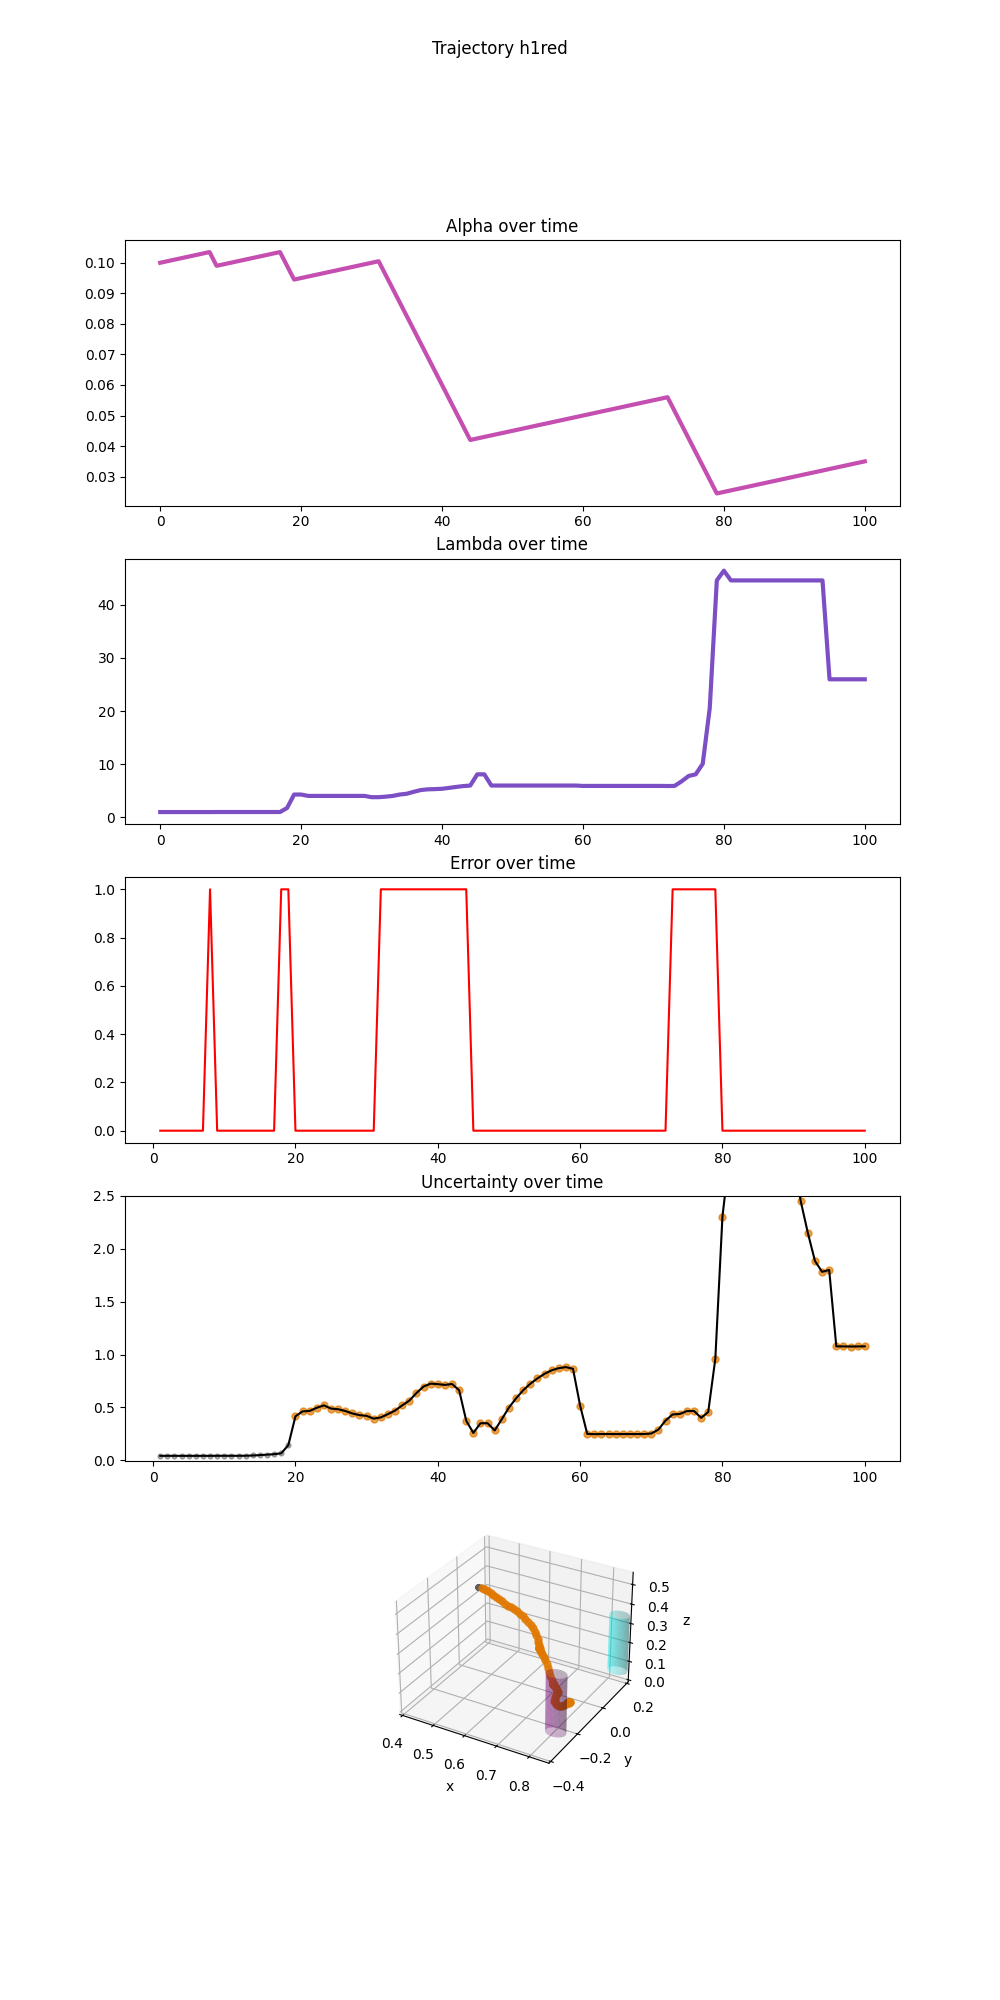
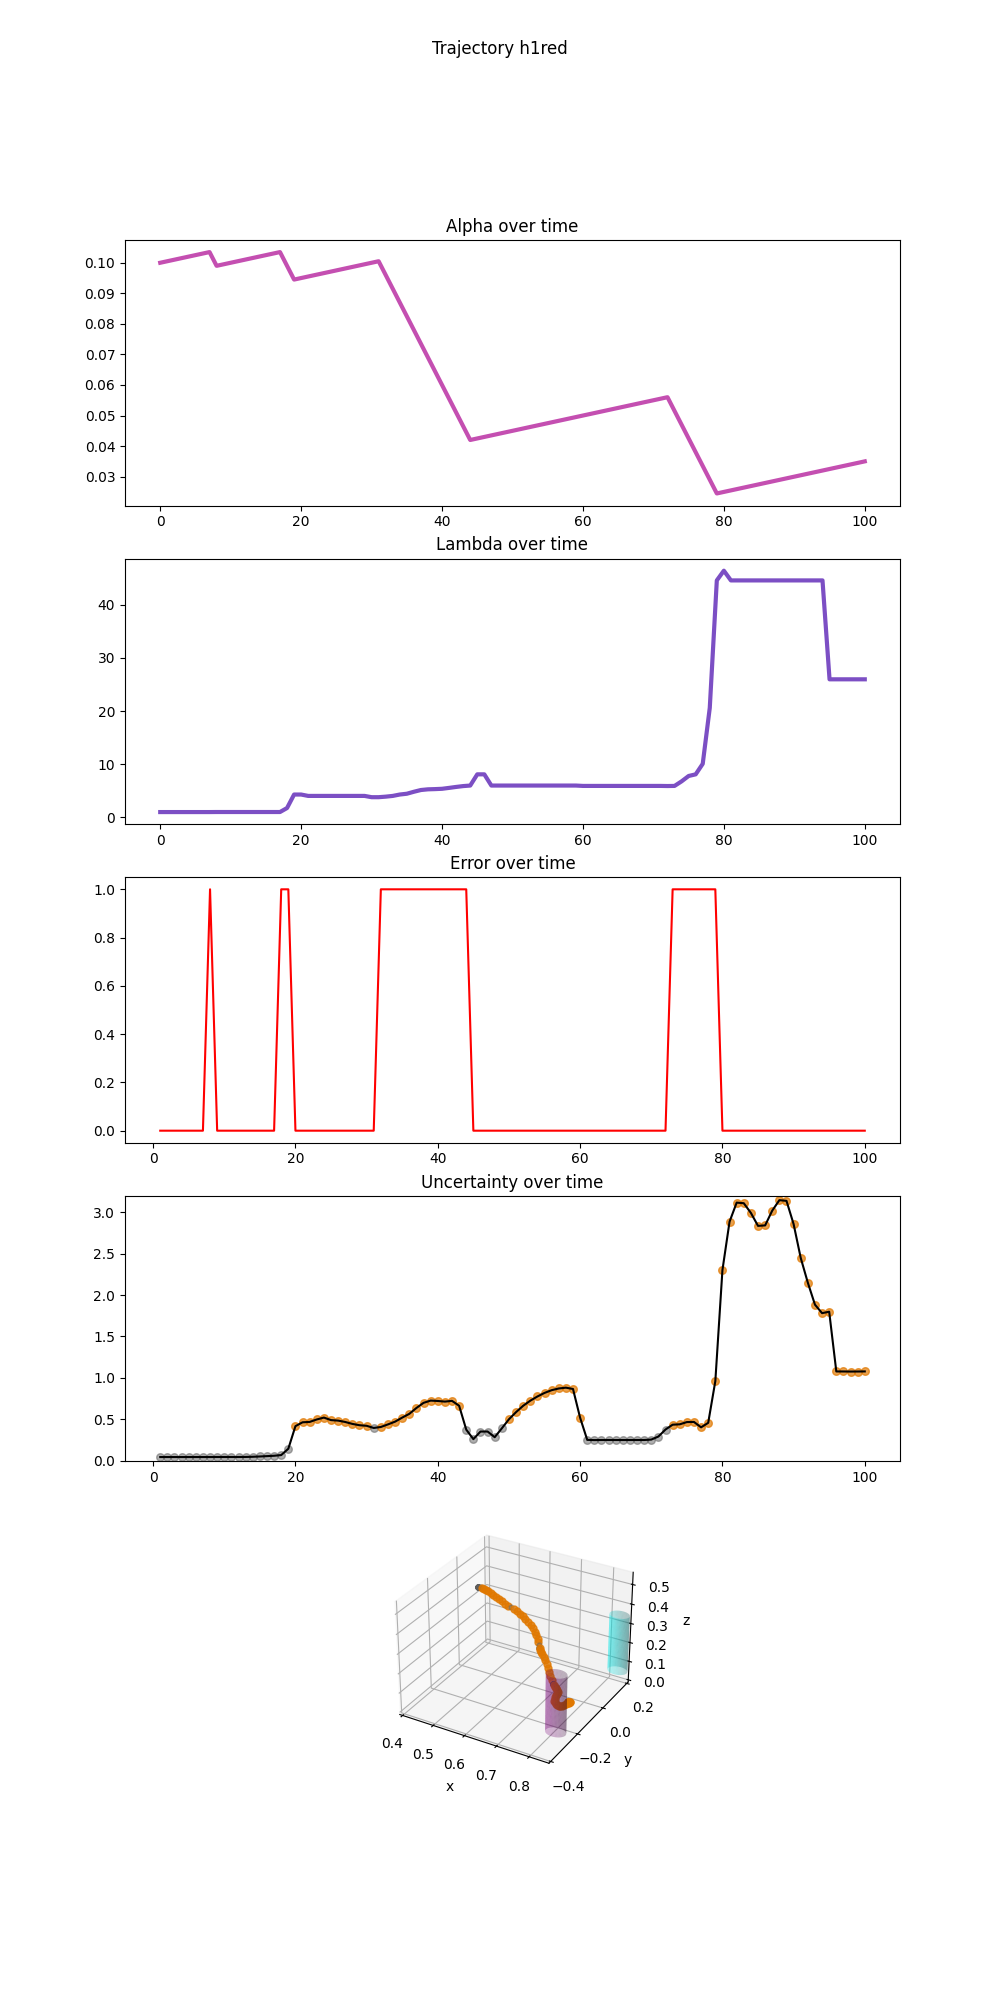
update plotting

diff --git a/utils/robot_7dof_goal_utils/calibrate_teleop_model.py b/utils/robot_7dof_goal_utils/calibrate_teleop_model.py
@@ -502,11 +502,11 @@ def calibrate_teleop_model_with_acqr_w_human_data(calibration_traj_idx_to_data,
 
         # swap rotated_z
     #     Lx,Ly = rotated_z
-    #     Lx, Ly = -Ly, Lx
-    #     rotated_z = [Lx, Ly]
-    #     resave_file.append([state, true_high_dim_action, rotated_z])
-    # #     plt.scatter(Lx, Ly, color=task_color)
-    # # plt.show()
+    # #     Lx, Ly = -Ly, Lx
+    # #     rotated_z = [Lx, Ly]
+    # #     resave_file.append([state, true_high_dim_action, rotated_z])
+    #     plt.scatter(Lx, Ly, color=task_color)
+    # plt.show()
     # # save resave file
     # import pickle
     # with open(f"data/resave_{calib_user}_{task_color}.pkl", 'wb') as f:

diff --git a/compute_uncertainty_on_human_annotations.py b/compute_uncertainty_on_human_annotations.py
@@ -85,9 +85,10 @@ if __name__ == '__main__':
         print("Calibration type not supported")
         exit(1)
 
+    task_color = sys.argv[4]
     for human_annot in ['hstar', 'h1', 'h2', 'h3', 'h4']:
     # for human_annot in ['h1']:
-        for task_color in ['red']:
+        for task_color in [task_color]:
             print("\n\nCalibrating on ", human_annot, " for task color: ", task_color)
             # load human data
             human_data_file = f'data/human_annotations/{human_annot}_{task_color}.pkl'

diff --git a/utils/robot_7dof_goal_utils/plotting_calibration.py b/utils/robot_7dof_goal_utils/plotting_calibration.py
@@ -272,7 +272,7 @@ def plot_calibration_results_w_human_data(calibration_traj_idx_to_data,
 
     ax4.plot(np.arange(1, len(uncertainty_list) + 1), uncertainty_list, label="uncertainty", color="black")
     ax4.set_title("Uncertainty over time")
-    ax4.set_ylim(-0.01, 2.5)
+    ax4.set_ylim(-0.01, 3.2)
     # ax4.set_ylim(-0.01, 1.6)
 
     Xc, Yc, Zc = data_for_cylinder_along_z(0.70980445 + 0.1, 0.25232062, 0.03, 0.3)
